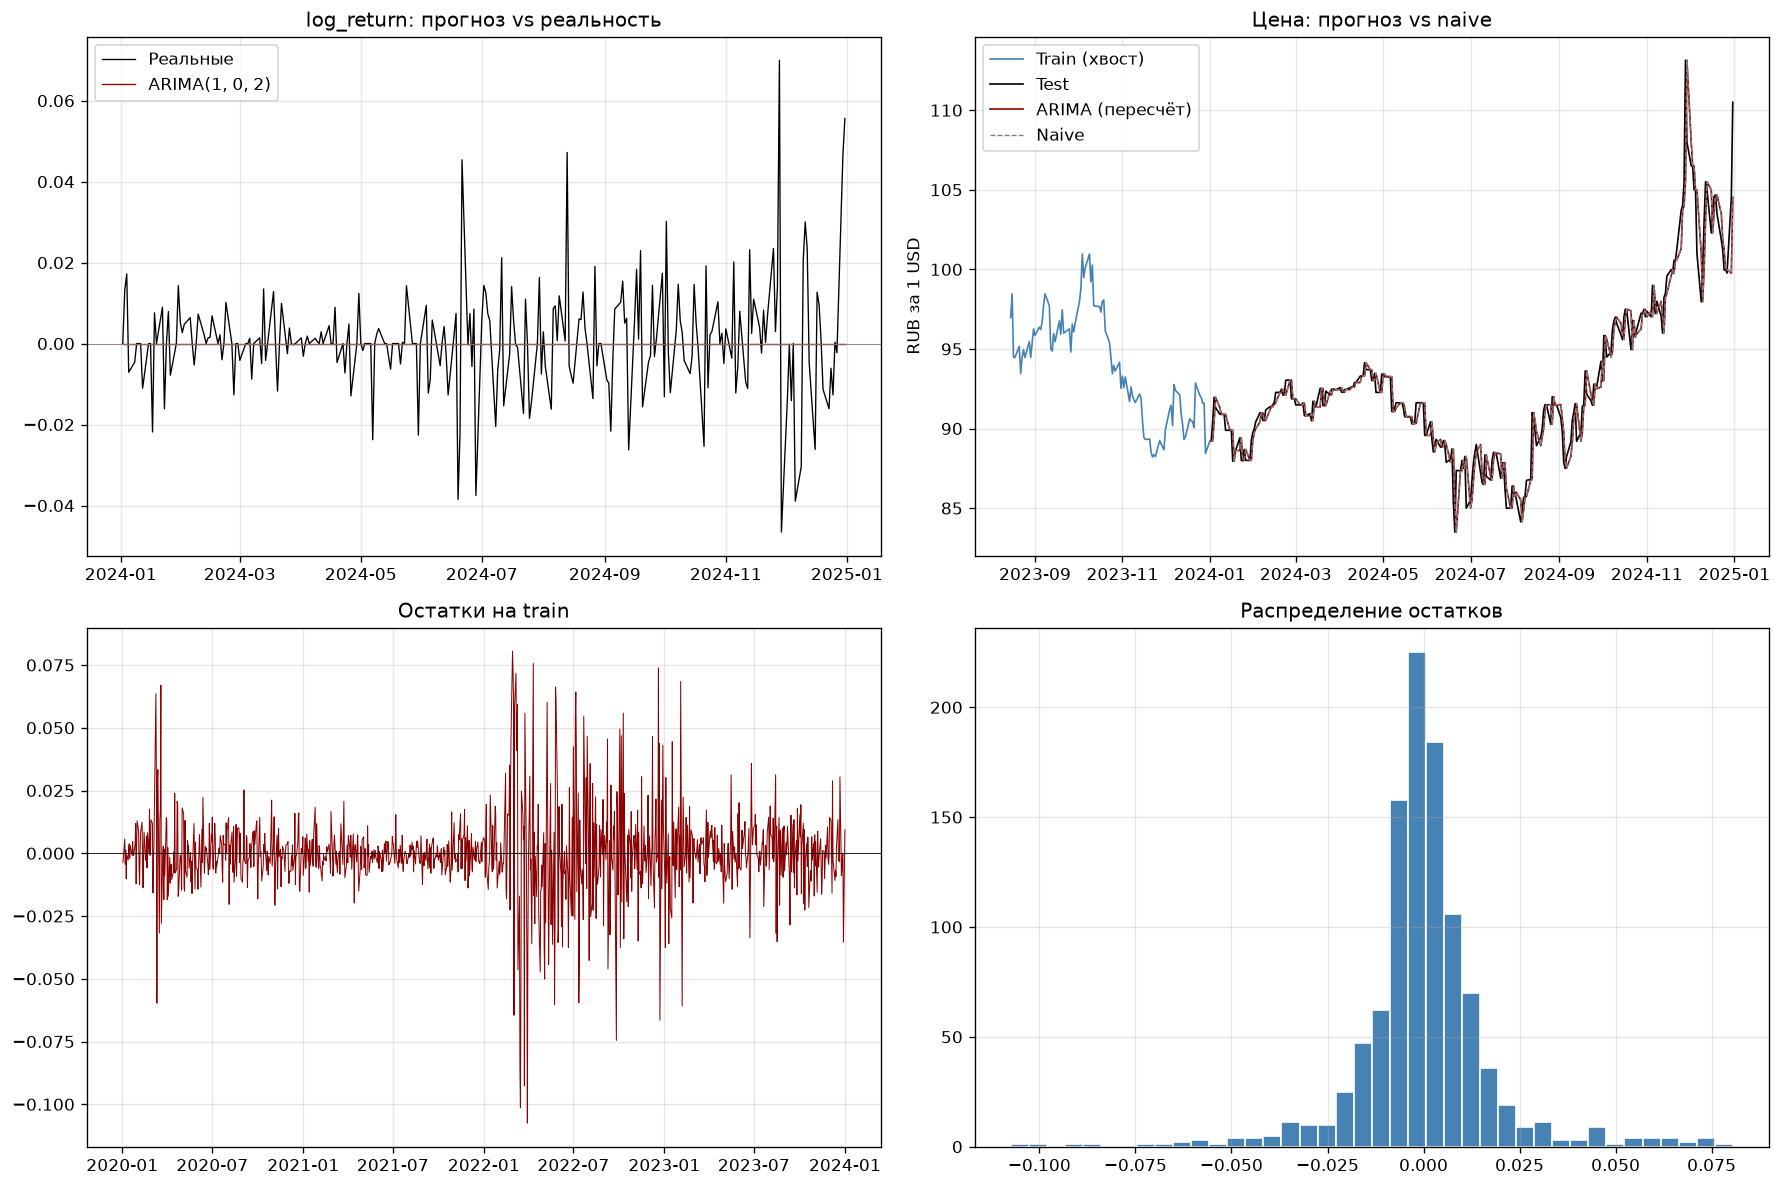
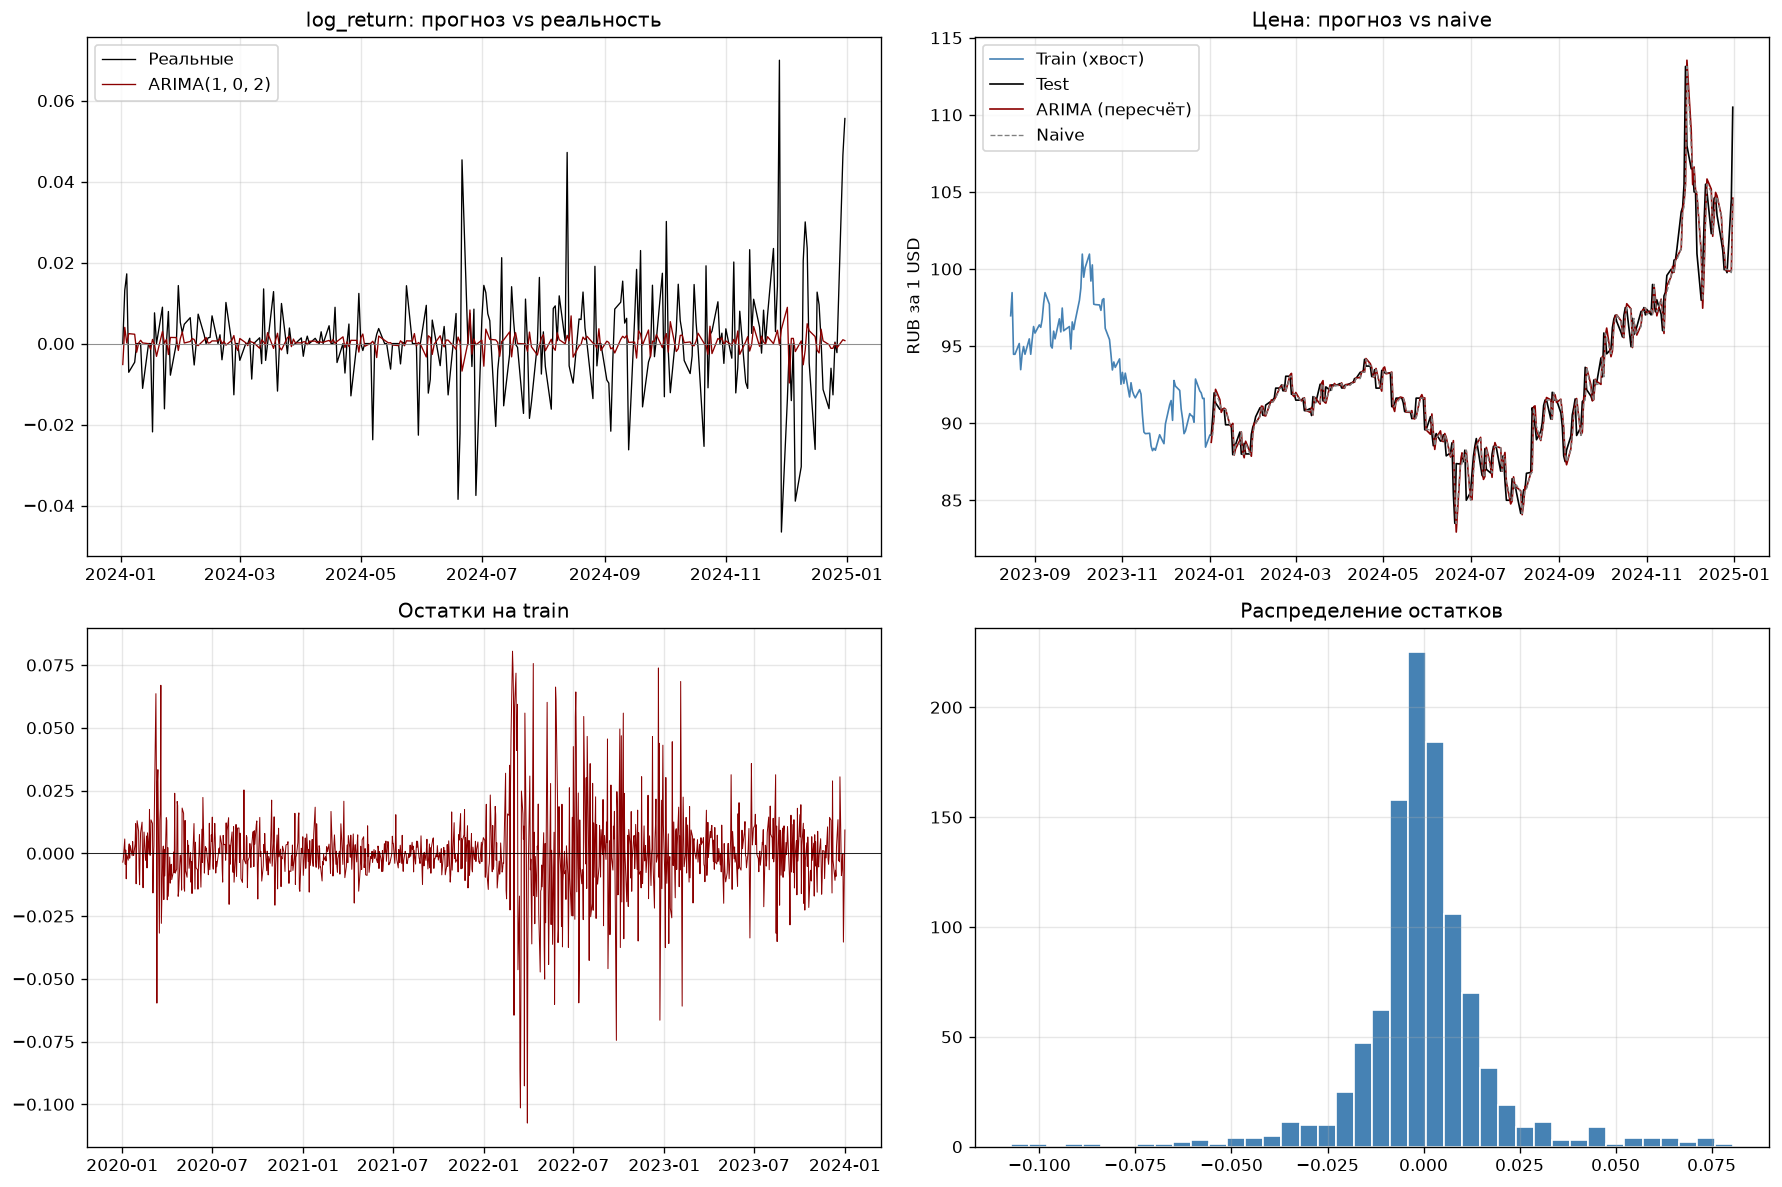
Тема 1 закрыта: ARIMA negative result (MAPE -5.9% vs naive), README, requirements

diff --git a/03b_arima_returns.py b/03b_arima_returns.py
@@ -96,7 +96,7 @@ best_order = (int(best["p"]), 0, int(best["q"]))
 print(f"\nЛучшая: ARIMA{best_order}, AIC={best['aic']:.2f}")
 
 fitted_best = ARIMA(train["log_return"], order=best_order).fit()
-print("\nПараметры лучшей модели (все ≈ 0 → модель предсказывает среднее):")
+print("\nПараметры лучшей модели (AR/MA значимы):")
 print(fitted_best.params)
 
 
@@ -111,7 +111,7 @@ predictions = []
 for i, true_r in enumerate(test["log_return"].values):
     try:
         m = ARIMA(history, order=best_order).fit()
-        yhat = float(m.forecast(steps=1).iloc[0])
+        yhat = float(np.asarray(m.forecast(steps=1)).flat[0])
     except Exception:
         yhat = 0.0
     predictions.append(yhat)

diff --git a/README.md b/README.md
@@ -1,0 +1,68 @@
+# Тема 1: Прогнозирование USD/RUB
+
+## Данные
+USDRUB, дневные, 2020-01-02 — 2024-12-31 (1304 строки).
+Train: 1043 строки (до 2024-01-01). Test: 261 строка (2024 год).
+
+## Что проверено
+
+### 1. ARIMA на ценах (`03_arima.py`)
+Grid search (p,1,q), p,q∈[0..3] по AIC. Прогноз статический на тест.
+Результат: MAE/RMSE/MAPE значительно хуже naive.
+
+### 2. ARIMA на log-доходностях (`03b_arima_returns.py`)
+- ADF: p-value = 0.0000 → ряд стационарен, d=0
+- Grid search (p,0,q), p,q∈[0..5] по AIC
+- Best: ARIMA(1,0,2), AIC = -5456.99
+- Коэффициенты: const=0.00034, ar.L1=-0.353, ma.L1=0.379, ma.L2=0.172
+  (AR/MA значимы, p < 0.01)
+- Прогноз walk-forward one-step на 261 точке теста
+- Ljung-Box: lag=10 p=0.12 (ОК), lag=20 p=0.0008
+
+## Результат
+
+| Модель | MAE (returns) | RMSE (returns) |
+|---|---|---|
+| Baseline (predict 0) | 0.008356 | 0.013274 |
+| ARIMA(1,0,2) walk-forward | 0.008849 | 0.013672 |
+| Улучшение | -5.9% | -3.0% |
+
+| Модель | MAE (price) | RMSE (price) | MAPE (price) |
+|---|---|---|---|
+| Naive (p̂_t = p_{t-1}) | 0.7870 | 1.2888 | 0.834% |
+| ARIMA(1,0,2) → price | 0.8332 | 1.3253 | 0.884% |
+| Улучшение | -5.9% | -2.8% | -5.9% |
+
+## Вывод
+
+ARIMA(1,0,2) не превосходит naive-бейзлайн: она ухудшает метрики
+на 3-6%. AR/MA-коэффициенты при этом статистически значимы, но
+типичная величина прогноза r̂_t ~ 0.002 оказывается в ~5 раз меньше
+типичной |r_t| ~ 0.010, и на метриках это не отражается.
+
+Для USD/RUB это ожидаемо: дневные log-доходности валютных пар близки
+к белому шуму. Negative result подтверждает корректность методики:
+- ADF → grid search по AIC → walk-forward → Ljung-Box
+- Метрики на доходностях + пересчёт в цены
+- Baseline «predict 0» и naive p̂_t = p_{t-1}
+
+Что не поможет дальше: ARIMA с большими p,q; ARMA; экспоненциальное
+сглаживание. Что может помочь: GARCH на волатильность, экзогенные
+признаки (нефть, ставка ЦБ, DXY).
+
+## Файлы
+- `01_eda.py` — EDA, ACF/PACF
+- `02_clean.py`, `02b_clean_v2.py` — очистка данных
+- `03_arima.py` — ARIMA на ценах
+- `03b_arima_returns.py` — ARIMA на доходностях (walk-forward)
+- `data/` — данные и метрики
+- `figures/` — графики
+
+## Воспроизведение
+python -m venv .venv
+source .venv/bin/activate
+pip install -r requirements.txt
+python 01_eda.py
+python 02b_clean_v2.py
+python 03_arima.py
+python 03b_arima_returns.py
